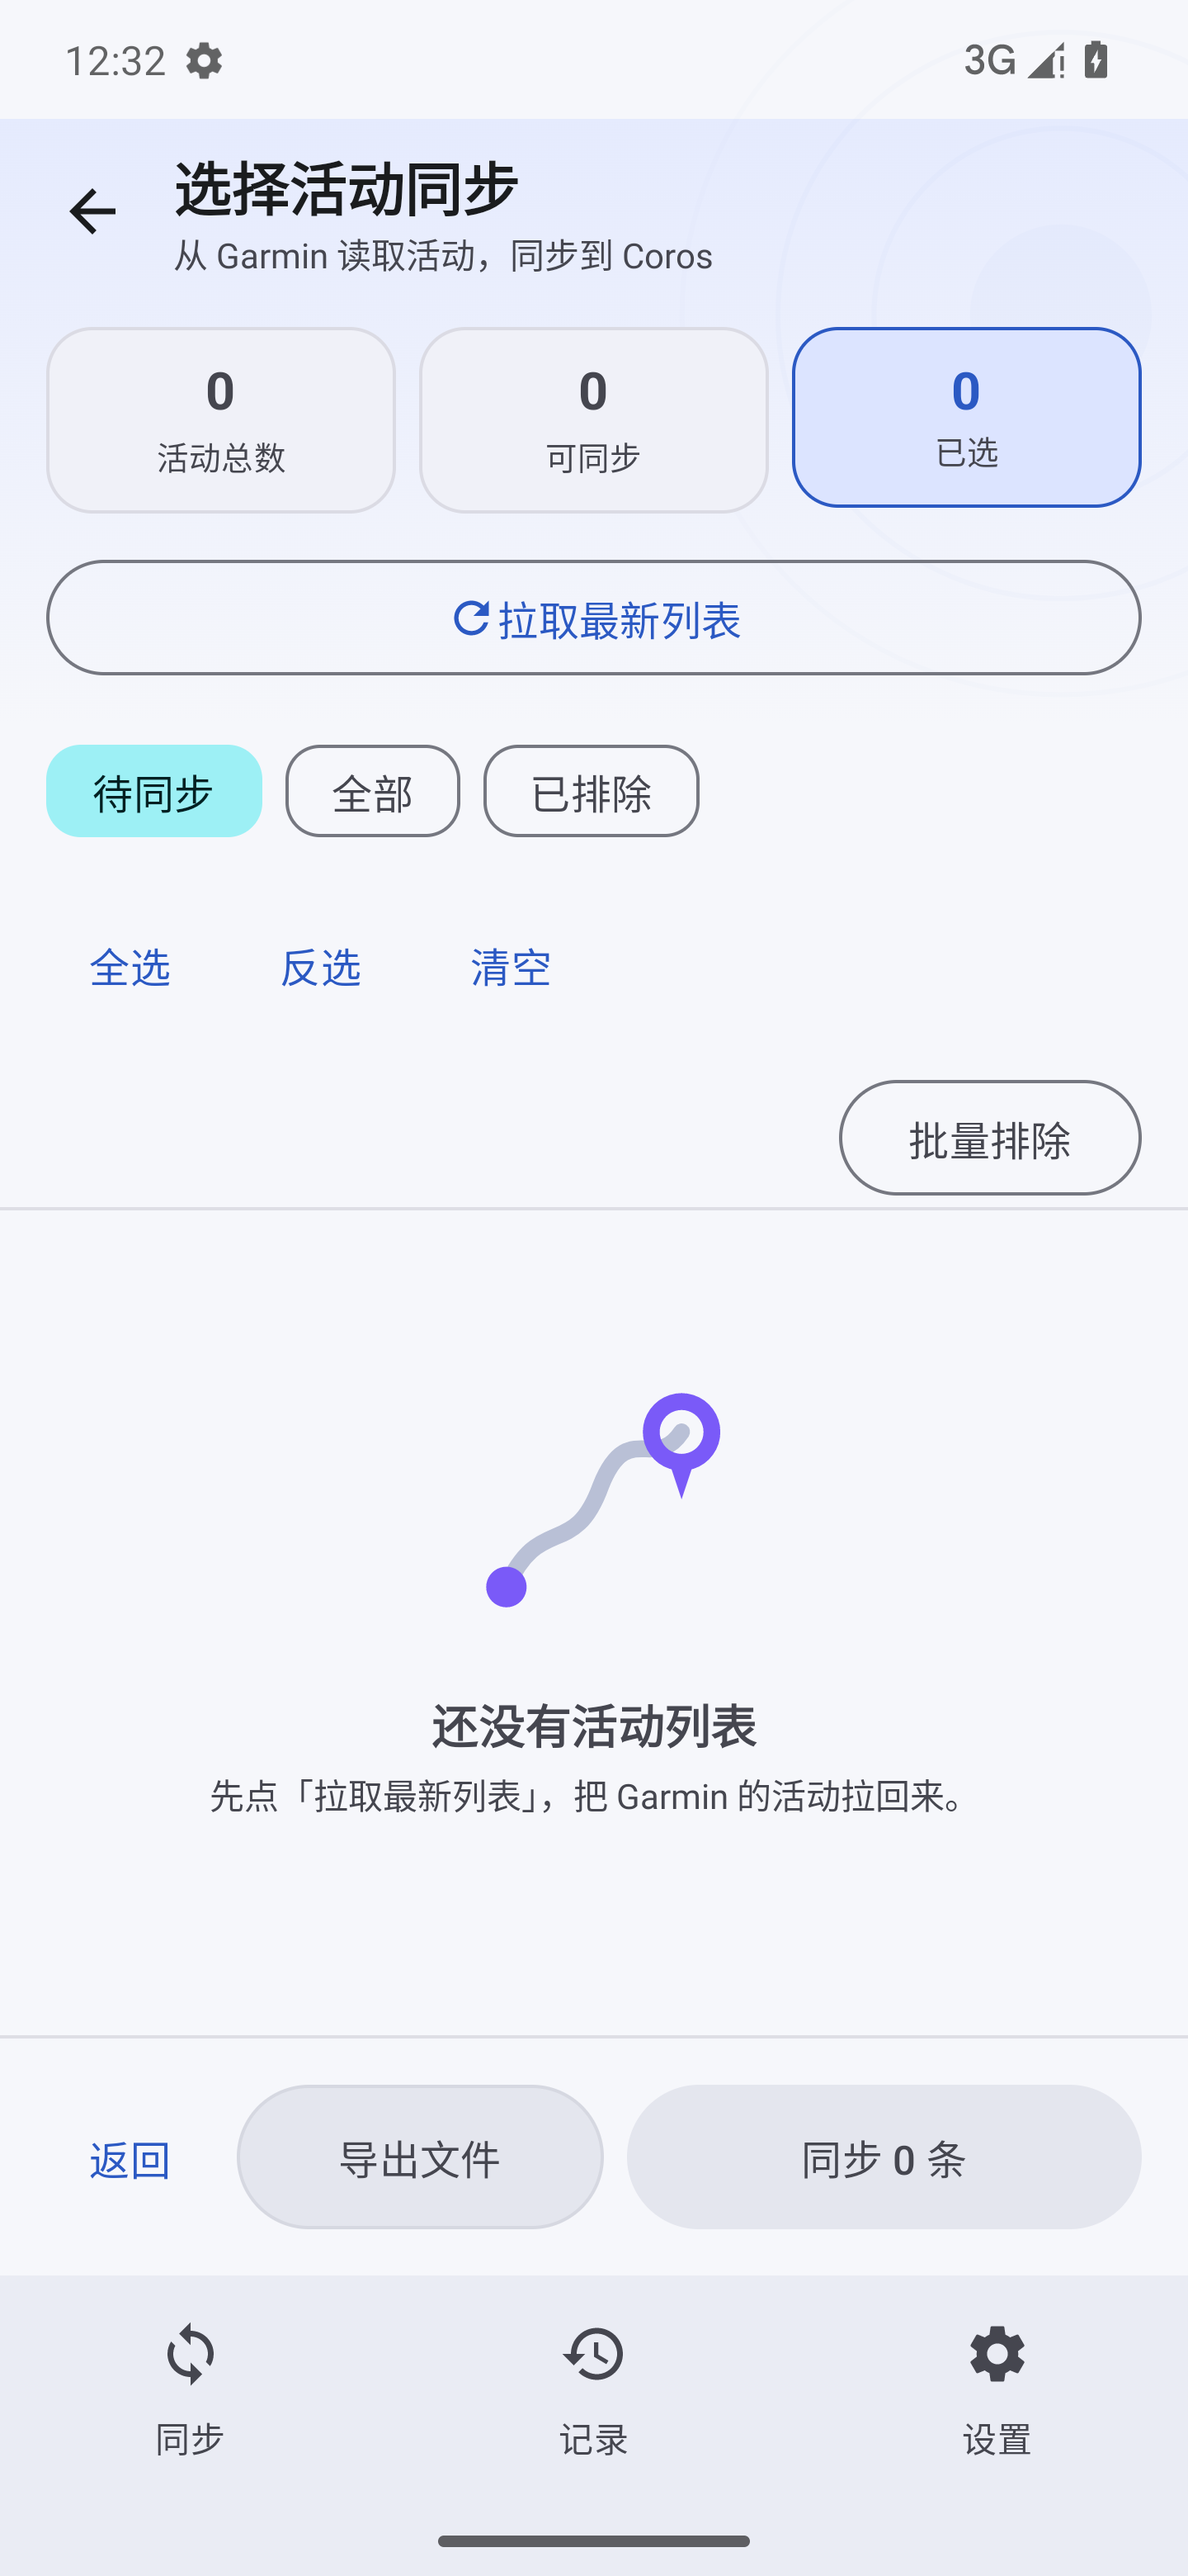
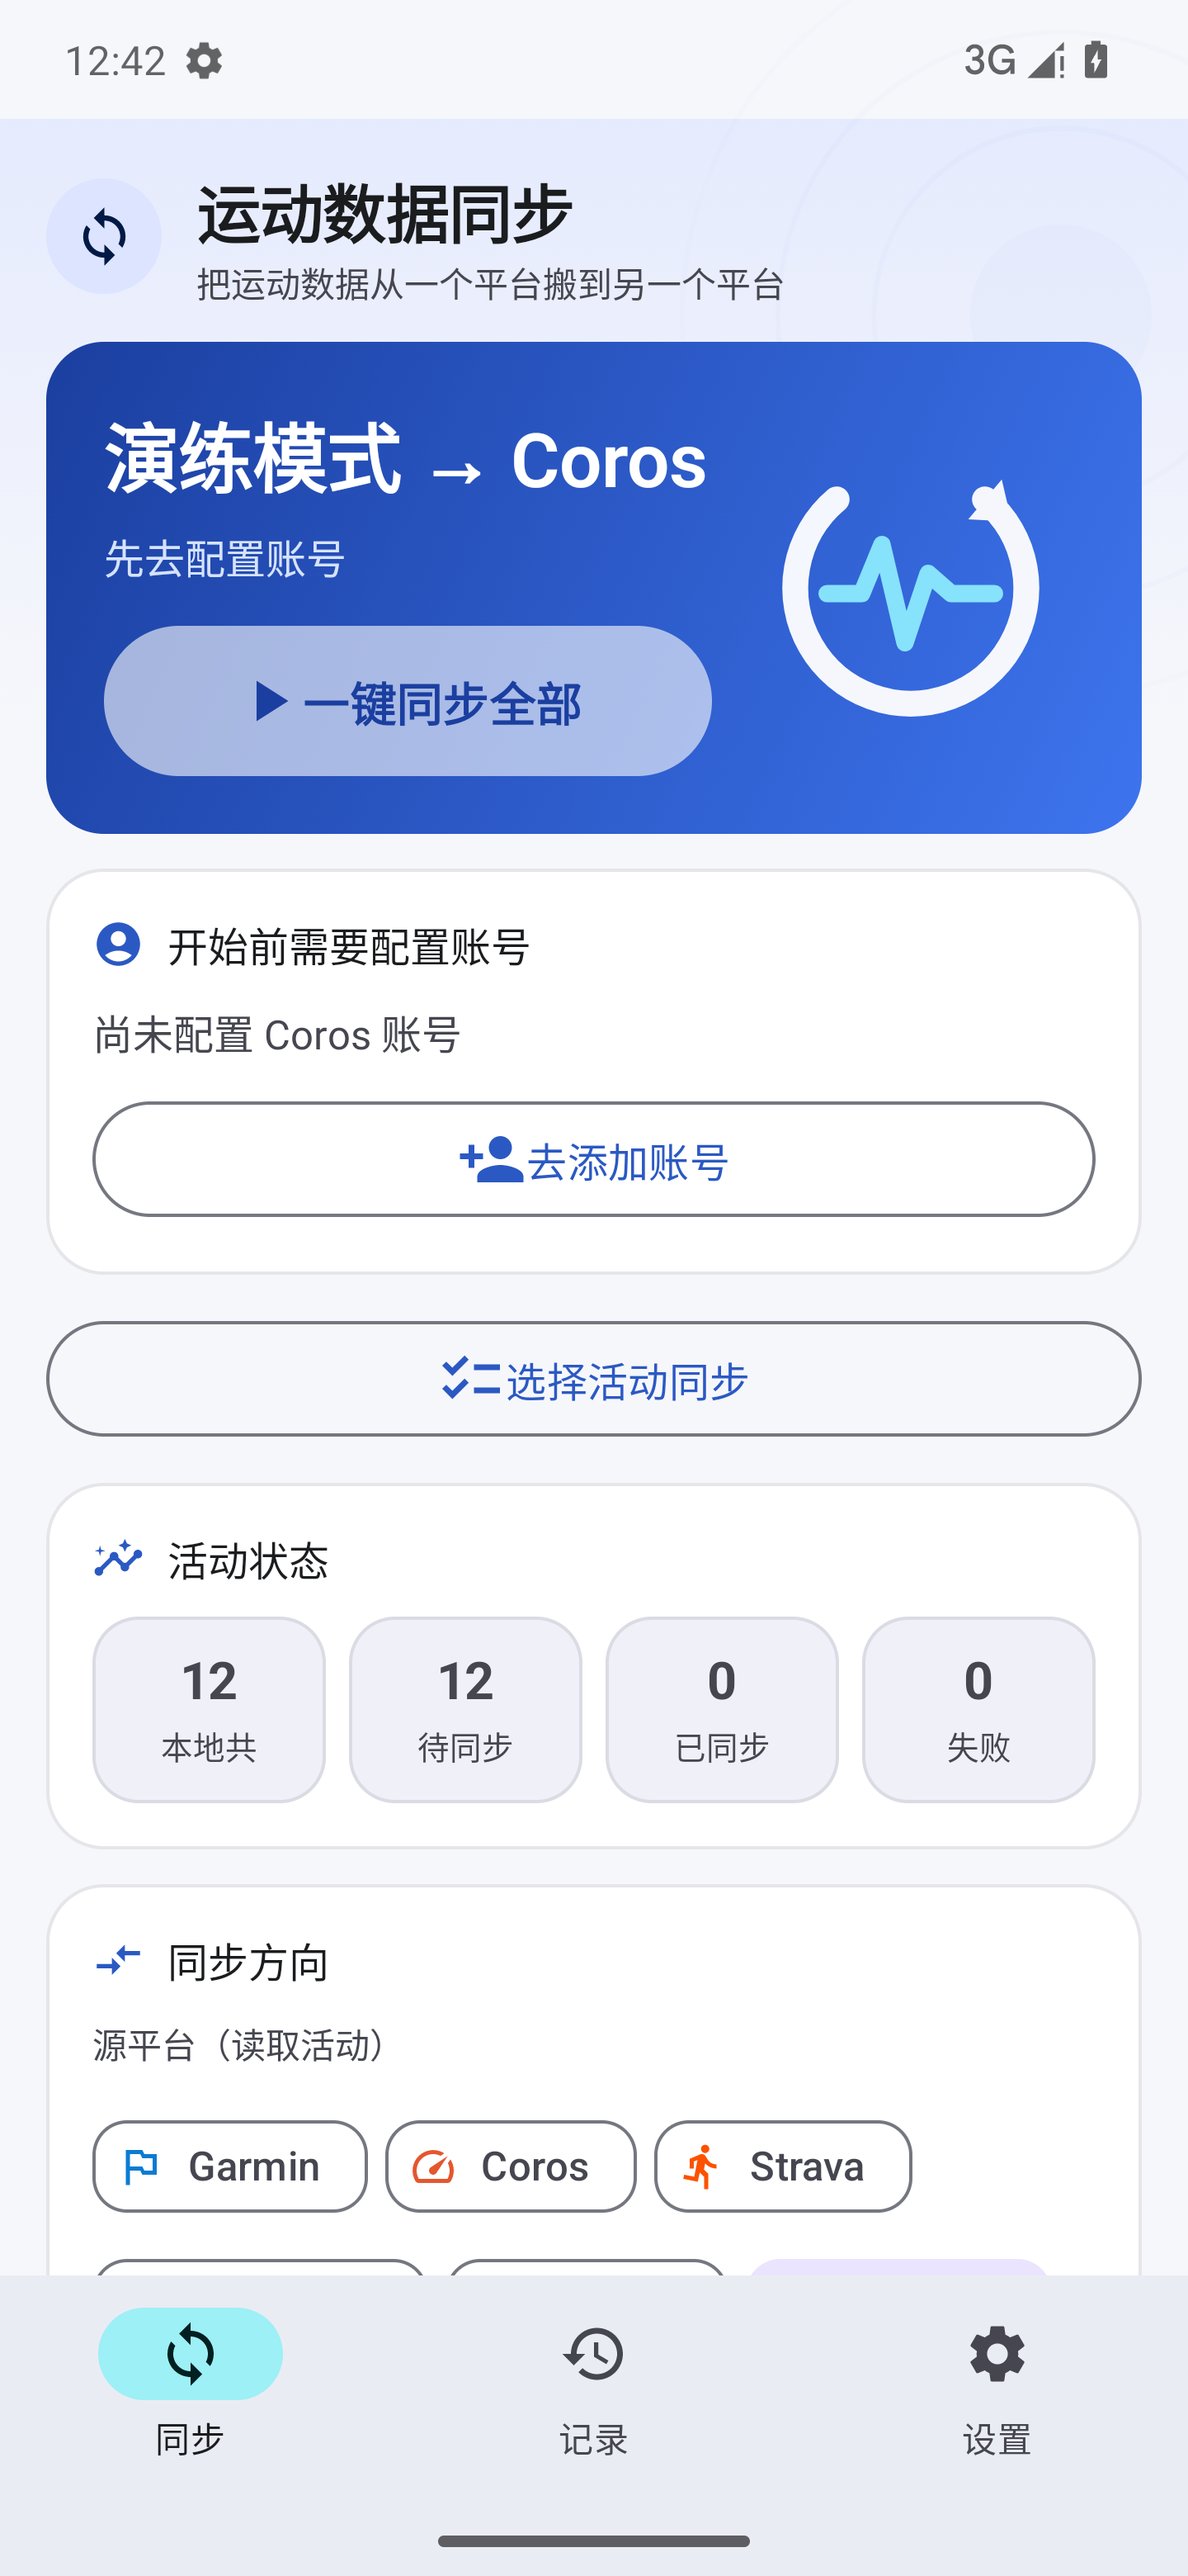
fix(ui): 活动选择页的「批量排除」并到筛选 chip 同一行
用户反馈：批量排除按钮单独占一行，纵向空间被吃掉一大截。
现在它和「待同步 / 全部 / 已排除」三个筛选 chip 并排（chip 在左、按钮在右）——
它作用的就是当前筛选出来的那些活动，放在一起也最说得通。

实测这一页顶部少了 53dp，活动列表能多露出一行。

diff --git a/app/src/main/java/com/sportfit/sync/ui/screens/ActivityPickerScreen.kt b/app/src/main/java/com/sportfit/sync/ui/screens/ActivityPickerScreen.kt
@@ -165,45 +165,28 @@ fun ActivityPickerScreen(
                 }
             }
 
-            // ---- 筛选 ------------------------------------------------------
+            // ---- 筛选 + 批量操作 ---------------------------------------------
             // 三选一：默认「待同步」，另外两个用来查全量 / 查已排除。
+            // 批量按钮**并在这一行的右边**：它作用的就是当前筛选出来的那些活动，
+            // 放一起最说得通，也省掉一整行纵向空间（这一页顶部本来就很挤）。
             Row(
                 modifier = Modifier.padding(horizontal = 16.dp),
-                horizontalArrangement = Arrangement.spacedBy(8.dp),
+                verticalAlignment = Alignment.CenterVertically,
             ) {
-                PickerFilter.entries.forEach { option ->
-                    FilterChip(
-                        selected = filter == option,
-                        onClick = { filter = option },
-                        label = { Text(option.label) },
-                    )
+                Row(
+                    modifier = Modifier.weight(1f),
+                    horizontalArrangement = Arrangement.spacedBy(8.dp),
+                ) {
+                    PickerFilter.entries.forEach { option ->
+                        FilterChip(
+                            selected = filter == option,
+                            onClick = { filter = option },
+                            label = { Text(option.label) },
+                        )
+                    }
                 }
-            }
-
-            // ---- 批量选择 --------------------------------------------------
-            Row(
-                // 横向留白 16dp：和上面的拉取按钮、筛选 chips 对齐。
-                modifier = Modifier.padding(horizontal = 16.dp),
-                horizontalArrangement = Arrangement.spacedBy(8.dp),
-            ) {
-                TextButton(onClick = { selected = selectable.map { it.activityId }.toSet() }) {
-                    Text("全选")
-                }
-                TextButton(onClick = {
-                    selected = selectable.map { it.activityId }.toSet() - selected
-                }) { Text("反选") }
-                TextButton(onClick = { selected = emptySet() }) { Text("清空") }
-            }
-
-            // ---- 批量排除 / 批量恢复 -----------------------------------------
-            // 两个按钮互斥：在「已排除」筛选下只可能恢复，其它筛选下只可能排除，
-            // 不会出现两个含义打架的按钮同时挂在页面上。
-            Row(
-                modifier = Modifier
-                    .fillMaxWidth()
-                    .padding(horizontal = 16.dp),
-                horizontalArrangement = Arrangement.End,
-            ) {
+                // 两个按钮互斥：在「已排除」筛选下只可能恢复，其它筛选下只可能排除，
+                // 不会出现两个含义打架的按钮同时挂在页面上。
                 if (filter == PickerFilter.EXCLUDED) {
                     OutlinedButton(
                         onClick = { pendingBatch = BatchAction.Restore(restorableIds) },
@@ -230,6 +213,22 @@ fun ActivityPickerScreen(
                     ) { Text("批量排除") }
                 }
             }
+
+            // ---- 批量选择 --------------------------------------------------
+            Row(
+                // 横向留白 16dp：和上面的拉取按钮、筛选 chips 对齐。
+                modifier = Modifier.padding(horizontal = 16.dp),
+                horizontalArrangement = Arrangement.spacedBy(8.dp),
+            ) {
+                TextButton(onClick = { selected = selectable.map { it.activityId }.toSet() }) {
+                    Text("全选")
+                }
+                TextButton(onClick = {
+                    selected = selectable.map { it.activityId }.toSet() - selected
+                }) { Text("反选") }
+                TextButton(onClick = { selected = emptySet() }) { Text("清空") }
+            }
+
         }
 
         HairLine()
